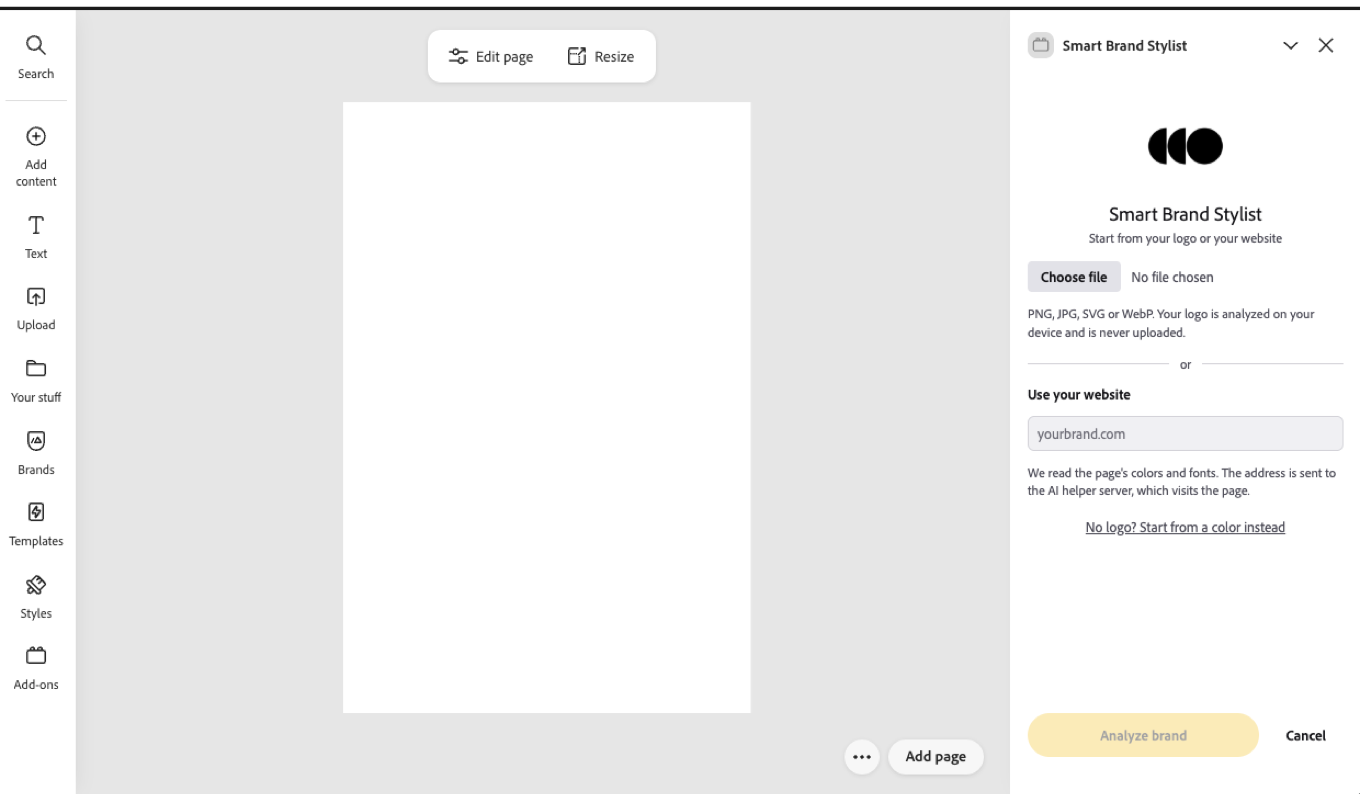
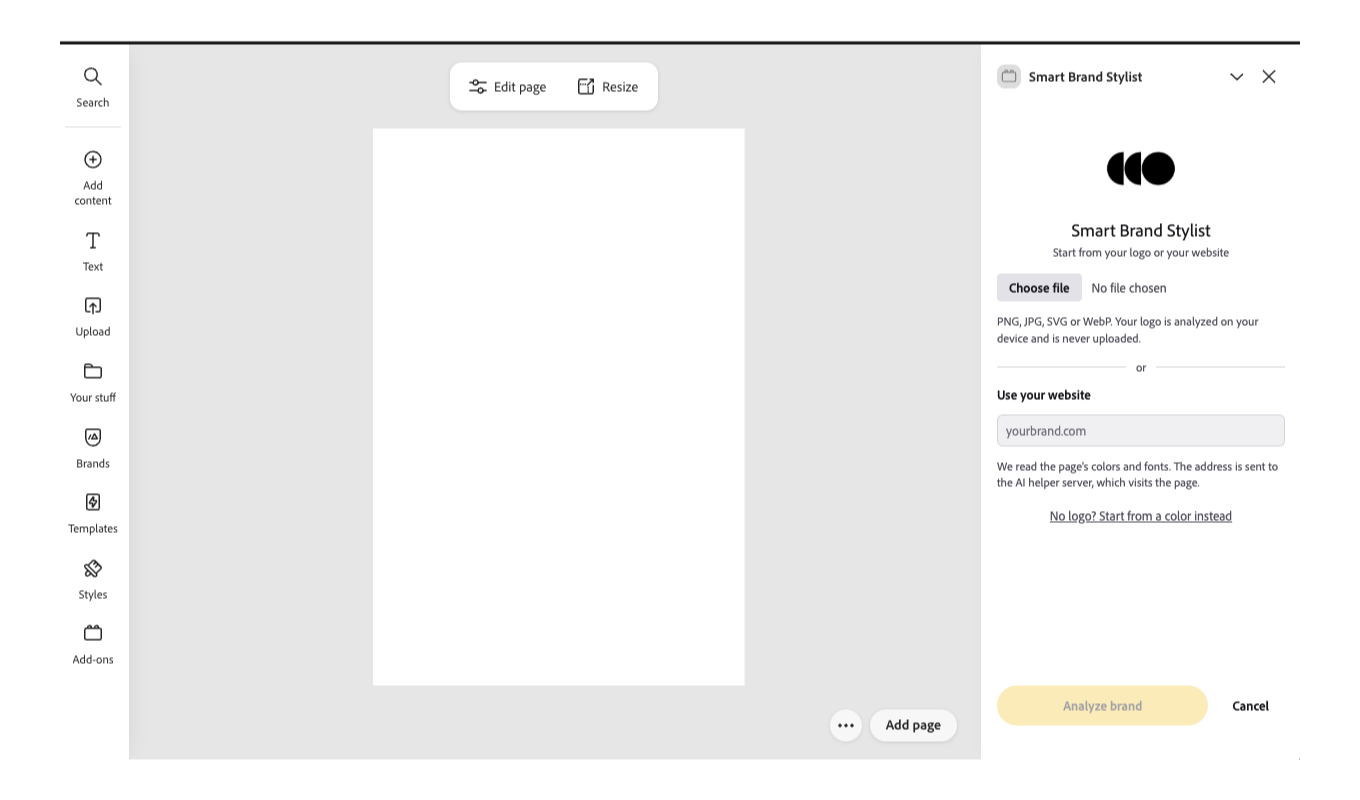
Pad a small capture up to size instead of blowing it up
A capture smaller than 1360x800 on both sides was scaled up to fill the
frame, which only invents pixels: the file is 1360x800 either way, but
softer. These five were 1240x715 and came out at 1.10x.

They are now placed at their own resolution and padded out with white,
which the panel already sits on, so the seam does not read as a border.
A capture larger than the target is still scaled down, which loses
nothing and stays the better case.

The warning is now a note rather than a count against the run, since
padding is a correct outcome and not something to fix before uploading.

Changed region(s): [[0.0, 0.0, 1.0, 1.0]]

diff --git a/listing/SCREENSHOTS.md b/listing/SCREENSHOTS.md
@@ -152,9 +152,14 @@ asked the panel to follow the Express theme, so all five raws exist again, inclu
 captures are only ever on disk, so keep a copy somewhere outside `raw/` until the listing
 is accepted -- a capture is a few minutes of setting up a document, not a few seconds.
 
-These five were captured at 1240x715 against a 1360x800 target, so the tool upscaled them
-1.10x and said so. That is mild enough to ship. To avoid it, capture the window with
-Cmd+Shift+4 then Space on a Retina display: the result is 2x and downscales cleanly.
+These five were captured at 1240x715, smaller than the 1360x800 target on both sides, so
+the tool leaves them at their own resolution and pads out to size rather than blowing them
+up. The file is 1360x800 either way; upscaling would only have invented pixels and made it
+soft. The padding is white and the panel sits on white, so the seam does not read as a
+border.
+
+A capture larger than the target is still scaled down, which is the better case and loses
+nothing: on a Retina display, Cmd+Shift+4 then Space over the window gives a 2x image.
 
 ## Why the tool exists
 
